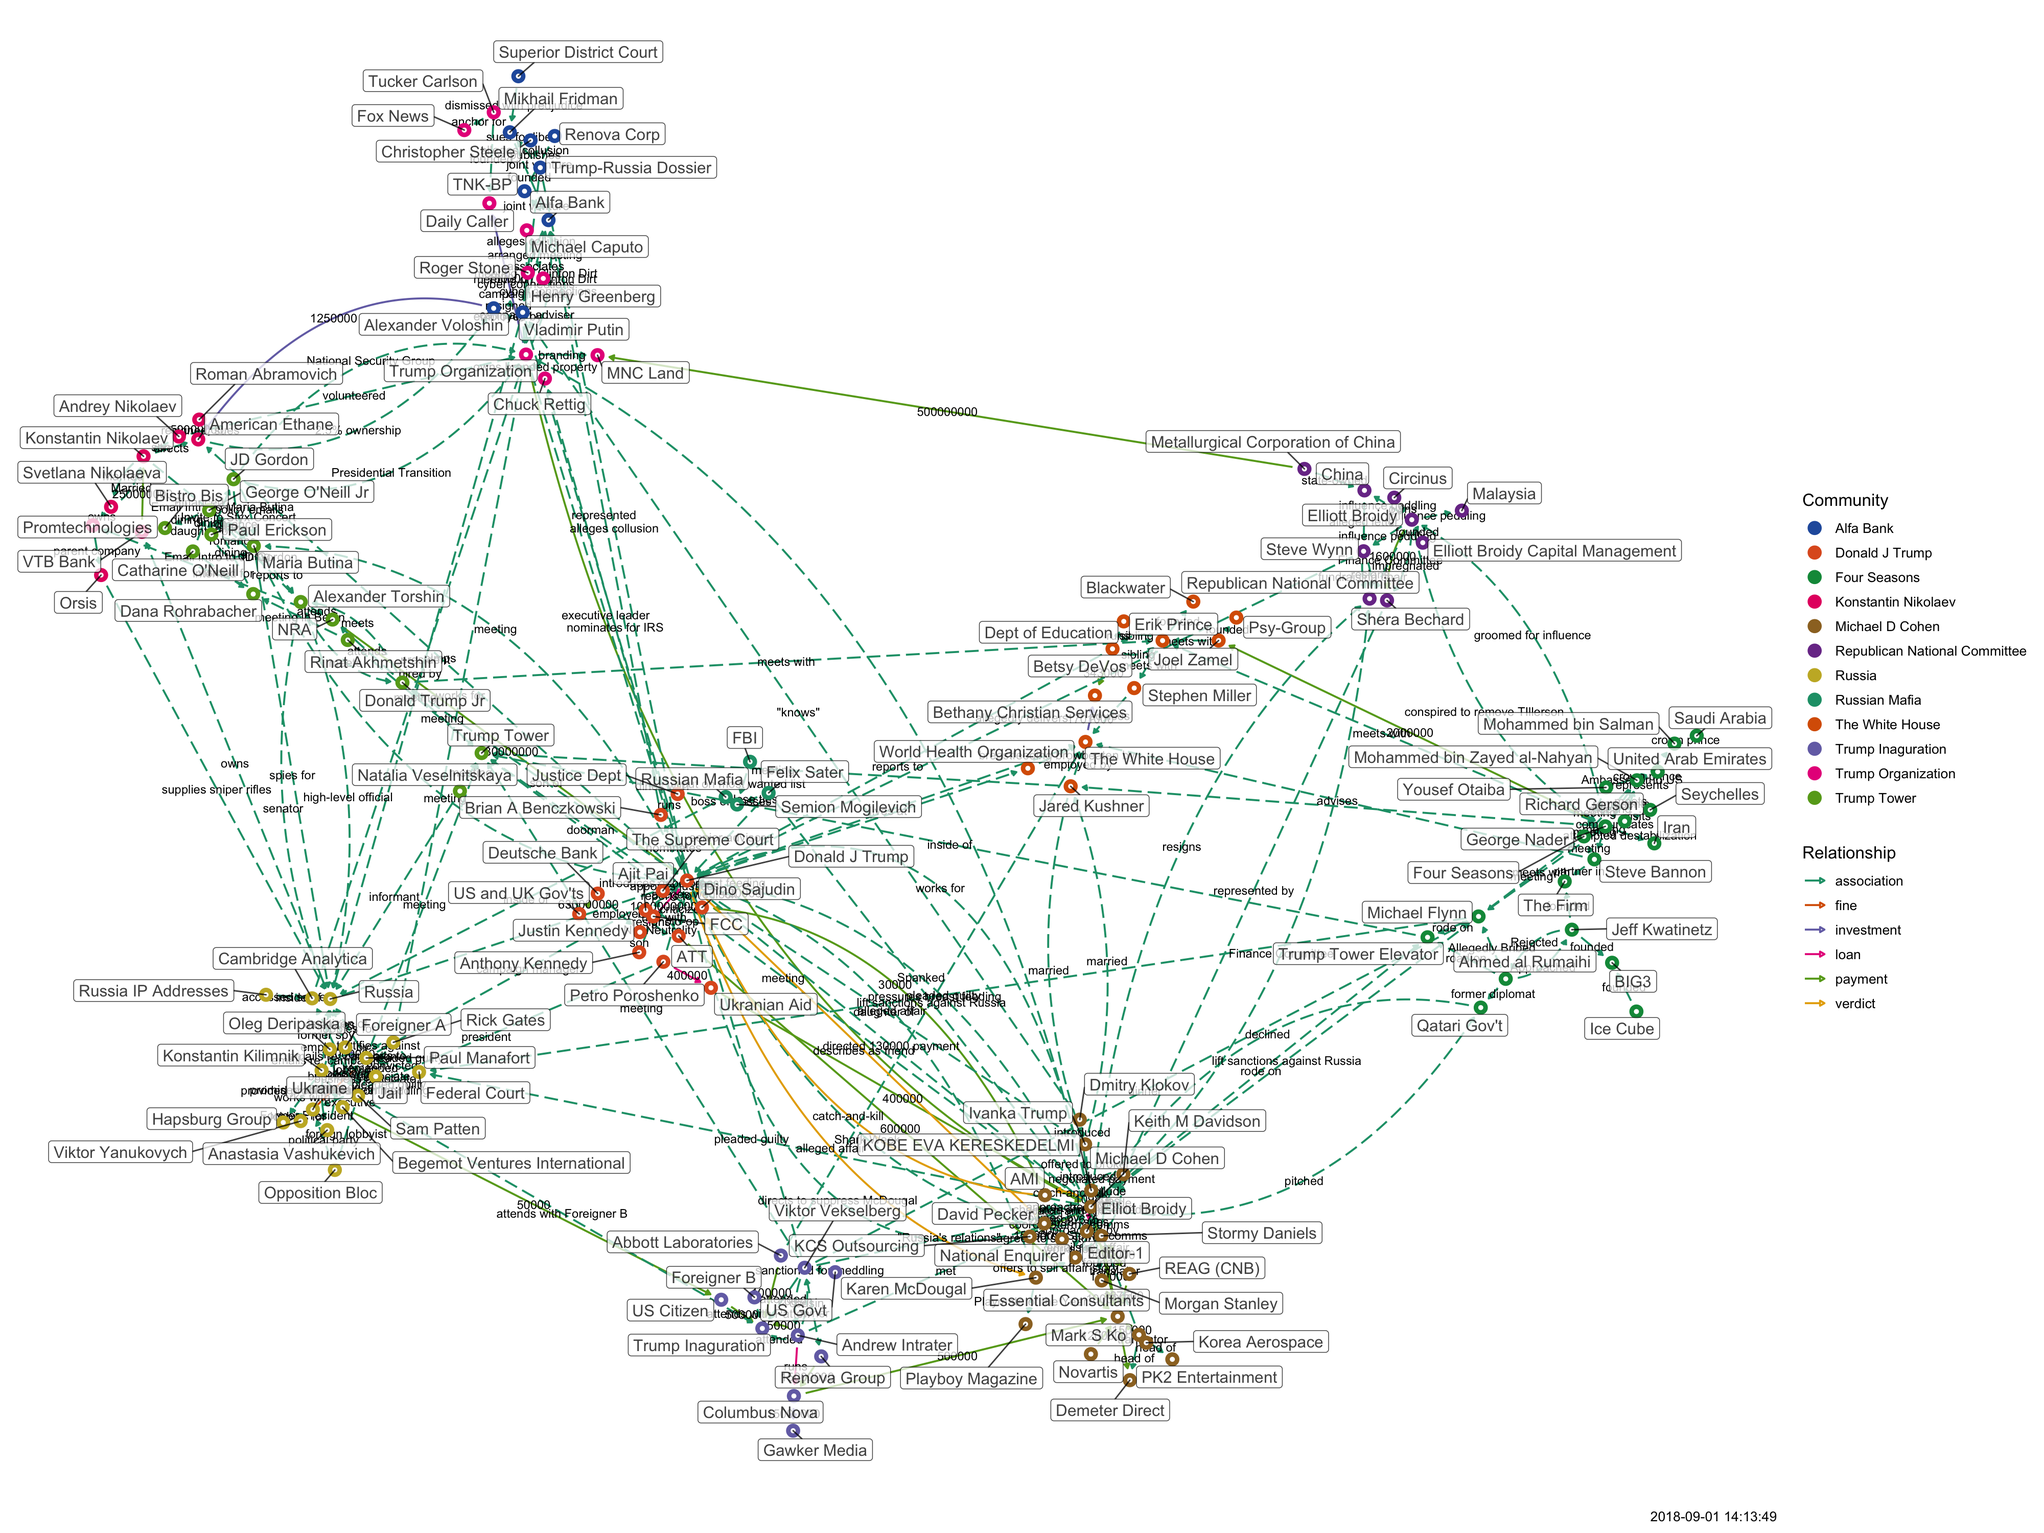
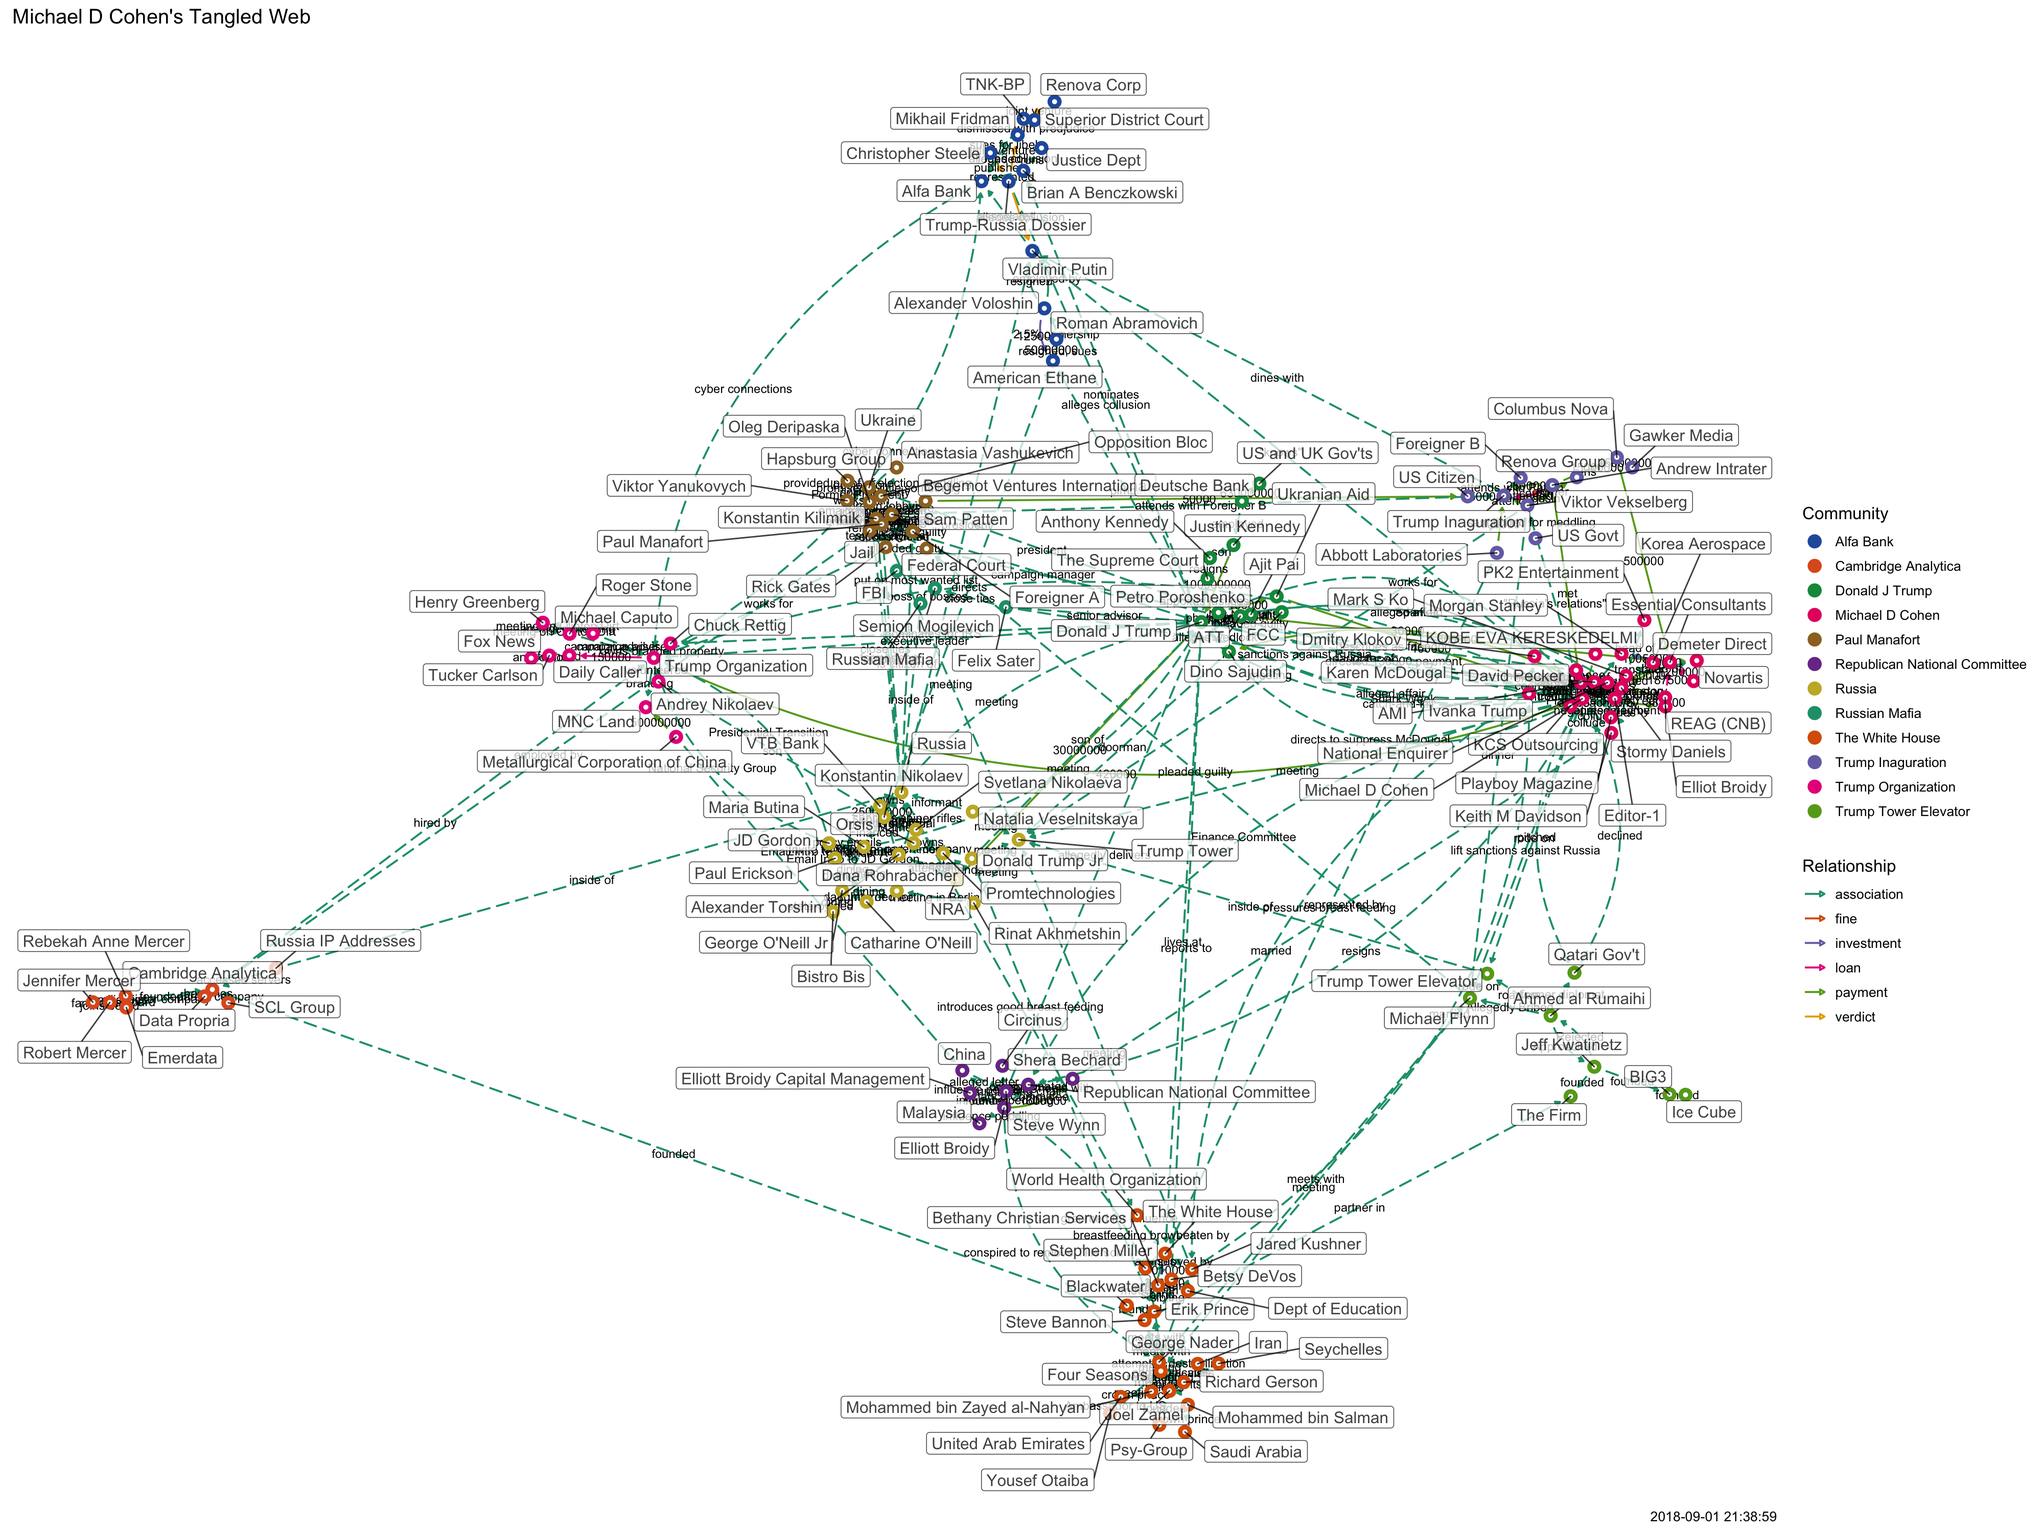
updated

diff --git a/docs/tangled-d3.html b/docs/tangled-d3.html
@@ -1143,11 +1143,11 @@ return function(){for(var n=0,e=0;e<t;++e)n+=Math.random();return n}},um=functio
 </head>
 <body style="background-color: white;">
 <div id="htmlwidget_container">
-<div id="htmlwidget-03ff935dff8e2866e40e" class="forceNetwork html-widget" style="width:960px;height:500px;">
+<div id="htmlwidget-85d11c28e7a87439447c" class="forceNetwork html-widget" style="width:960px;height:500px;">
 
 </div>
 </div>
-<script type="application/json" data-for="htmlwidget-03ff935dff8e2866e40e">{"x":{"links":{"source":[0,1,2,2,3,4,5,6,7,7,8,9,10,10,10,11,12,13,14,15,16,17,18,19,20,21,22,22,23,24,25,26,26,27,28,29,30,31,17,3,3,32,3,32,32,3,33,17,34,32,9,9,9,17,35,35,34,17,17,36,36,36,36,35,17,37,38,38,39,40,39,39,41,38,38,42,42,42,4,41,9,11,11,11,43,43,44,44,17,45,46,46,11,47,48,49,11,11,50,51,49,52,48,11,11,47,49,6,6,6,26,16,21,21,17,32,32,53,54,54,54,54,11,51,37,41,55,55,44,44,56,56,34,34,17,57,58,59,58,60,61,60,58,60,60,47,43,62,63,63,30,20,60,58,35,64,17,65,12,66,35,0,67,68,35,1,1,69,24,70,35,70,61,71,26,72,73,73,74,35,74,74,75,74,76,75,47,47,75,75,75,74,77,76,78,78,62,79,9,80,57,81,81,81,76,76,81,82,82,83,83,84,85,85,19,82,86,68,87,88,89,87,89,9,9,9,90,90,90,91,92,20,32,35,93,94,94,94,94,37,17,35,95,96,97,17,17,98,95,2,17,35,95,35,95,98,2,99,99,34,96,98,100,100,101,102,103,100,17,104,105,71,104,106,107,107,107,108,109,60,109,110,109,111,111,109,109,58,109,112,109],"target":[113,69,99,95,113,10,29,114,10,115,22,80,116,117,34,48,35,17,17,10,118,8,10,35,60,27,10,34,7,69,114,119,17,17,66,113,60,82,10,7,17,23,32,3,113,113,32,35,57,61,120,121,122,117,25,34,35,26,120,116,123,17,15,26,53,53,53,39,38,124,125,124,125,45,37,4,35,126,42,25,11,9,41,43,25,44,43,35,45,17,119,127,49,49,49,128,51,50,129,130,52,25,131,37,132,35,6,49,133,35,118,91,35,134,135,135,17,135,136,51,11,137,137,137,137,137,137,130,17,56,17,61,57,17,57,17,59,134,60,68,68,35,68,138,135,135,135,135,135,68,134,68,58,20,64,26,120,139,65,12,139,25,25,67,69,61,61,1,69,71,70,140,71,26,71,26,72,68,35,74,68,75,68,76,74,47,75,19,19,68,79,79,79,79,79,77,77,141,80,57,17,74,26,26,74,81,74,74,83,82,86,68,82,26,86,69,84,31,88,89,88,26,26,91,142,90,120,35,120,90,20,92,37,4,60,60,26,93,60,93,93,17,96,97,2,96,98,2,2,17,2,17,35,95,143,35,99,35,135,96,17,17,35,102,102,103,68,17,37,71,144,144,106,107,35,61,104,104,60,109,110,134,111,109,68,72,93,5,5,113,113],"colour":["red","blue","red","red","red","red","red","red","red","blue","red","red","red","red","red","red","blue","red","red","red","blue","red","red","blue","blue","red","red","red","blue","blue","red","red","red","red","blue","red","red","blue","blue","blue","blue","blue","blue","blue","blue","blue","blue","blue","blue","blue","blue","blue","blue","blue","blue","blue","blue","blue","blue","blue","blue","blue","blue","blue","blue","blue","blue","blue","blue","blue","blue","blue","blue","blue","blue","blue","blue","blue","blue","blue","blue","blue","blue","blue","blue","blue","blue","blue","blue","blue","blue","blue","blue","blue","blue","blue","blue","blue","blue","blue","blue","blue","blue","blue","blue","blue","blue","blue","blue","blue","blue","blue","blue","blue","blue","blue","blue","blue","blue","blue","blue","blue","blue","blue","blue","blue","blue","blue","blue","blue","blue","blue","blue","blue","blue","blue","blue","blue","blue","blue","blue","blue","blue","blue","blue","blue","blue","blue","blue","blue","blue","blue","blue","blue","blue","blue","blue","blue","blue","blue","blue","blue","blue","blue","blue","blue","blue","blue","blue","blue","blue","blue","blue","blue","blue","blue","blue","blue","blue","blue","blue","blue","blue","blue","blue","blue","blue","blue","blue","blue","blue","blue","blue","blue","blue","blue","blue","blue","blue","blue","blue","blue","blue","blue","blue","blue","blue","blue","blue","blue","blue","blue","blue","blue","blue","blue","blue","blue","blue","blue","blue","blue","blue","blue","blue","blue","blue","blue","blue","blue","blue","blue","blue","blue","blue","blue","blue","blue","blue","blue","blue","blue","blue","blue","blue","blue","blue","blue","blue","blue","blue","blue","blue","blue","blue","blue","blue","blue","blue","blue","blue","blue","blue","blue","blue","blue","blue","blue","blue","blue","blue","blue","blue","blue","blue","blue","blue","blue","blue","blue","blue","blue","blue","blue","blue","blue","blue","blue","blue","blue","blue"]},"nodes":{"name":["Abbott Laboratories","Alexander Voloshin","AMI","Andrew Intrater","ATT","Begemot Ventures International","Betsy DeVos","Columbus Nova","Elliot Broidy","Elliott Broidy","Essential Consultants","George Nader","Justin Kennedy","KCS Outsourcing","KOBE EVA KERESKEDELMI","Korea Aerospace","Metallurgical Corporation of China","Michael D Cohen","Novartis","NRA","Oleg Deripaska","Petro Poroshenko","REAG (CNB)","Renova Group","Roman Abramovich","The White House","Trump Organization","Ukranian Aid","US and UK Gov'ts","US Citizen","Viktor Yanukovych","VTB Bank","Viktor Vekselberg","US Govt","Stormy Daniels","Donald J Trump","Mark S Ko","Michael Flynn","Ahmed al Rumaihi","Jeff Kwatinetz","Ice Cube","Steve Bannon","Ajit Pai","Jared Kushner","Ivanka Trump","Qatari Gov't","Tucker Carlson","Donald Trump Jr","Joel Zamel","Erik Prince","Mohammed bin Salman","Mohammed bin Zayed al-Nahyan","Stephen Miller","Trump Tower Elevator","Richard Gerson","Yousef Otaiba","Dmitry Klokov","Keith M Davidson","Konstantin Kilimnik","Hapsburg Group","Paul Manafort","Vladimir Putin","Rinat Akhmetshin","Natalia Veselnitskaya","Chuck Rettig","Anthony Kennedy","Deutsche Bank","World Health Organization","Russia","American Ethane","Brian A Benczkowski","Alfa Bank","Cambridge Analytica","Russia IP Addresses","Maria Butina","Alexander Torshin","Paul Erickson","Dana Rohrabacher","Catharine O'Neill","George O'Neill Jr","Shera Bechard","JD Gordon","Konstantin Nikolaev","Svetlana Nikolaeva","Orsis","Andrey Nikolaev","Promtechnologies","Michael Caputo","Henry Greenberg","Roger Stone","Steve Wynn","China","Anastasia Vashukevich","Federal Court","Rick Gates","Karen McDougal","Editor-1","National Enquirer","David Pecker","Dino Sajudin","Felix Sater","FBI","Semion Mogilevich","Russian Mafia","Mikhail Fridman","Renova Corp","Christopher Steele","Trump-Russia Dossier","Superior District Court","Sam Patten","Opposition Bloc","Foreigner A","Foreigner B","Trump Inaguration","Bethany Christian Services","Gawker Media","Demeter Direct","Morgan Stanley","MNC Land","Daily Caller","Republican National Committee","Elliott Broidy Capital Management","Circinus","PK2 Entertainment","BIG3","The Firm","FCC","Fox News","Blackwater","Saudi Arabia","United Arab Emirates","Psy-Group","Iran","Dept of Education","Ukraine","Trump Tower","Seychelles","Four Seasons","Jail","The Supreme Court","Justice Dept","Bistro Bis","Malaysia","Playboy Magazine","TNK-BP"],"group":["7","8","1","7","4","3","6","7","1","9","1","2","4","1","1","1","9","1","1","5","3","4","1","7","11","6","10","4","4","7","3","11","7","7","1","4","1","2","2","2","2","2","4","6","1","2","10","5","6","6","2","2","6","2","2","2","1","1","3","3","3","8","5","5","10","4","4","6","3","11","4","8","3","3","5","5","5","5","5","5","9","5","11","11","11","11","11","10","10","10","9","9","3","3","3","1","1","1","1","4","12","12","12","12","8","8","8","8","8","3","3","3","7","7","6","7","1","1","10","10","9","9","9","1","2","2","4","10","6","2","2","6","2","6","3","5","2","2","3","4","4","5","9","1","8"]},"options":{"NodeID":"name","Group":"group","colourScale":"d3.scaleOrdinal(d3.schemeCategory20);","fontSize":20,"fontFamily":"serif","clickTextSize":50,"linkDistance":50,"linkWidth":"function(d) { return Math.sqrt(d.value); }","charge":-100,"opacity":1,"zoom":true,"legend":false,"arrows":false,"nodesize":false,"radiusCalculation":" Math.sqrt(d.nodesize)+6","bounded":false,"opacityNoHover":1,"clickAction":null}},"evals":[],"jsHooks":[]}</script>
-<script type="application/htmlwidget-sizing" data-for="htmlwidget-03ff935dff8e2866e40e">{"viewer":{"width":450,"height":350,"padding":10,"fill":true},"browser":{"width":960,"height":500,"padding":10,"fill":true}}</script>
+<script type="application/json" data-for="htmlwidget-85d11c28e7a87439447c">{"x":{"links":{"source":[0,1,2,2,3,4,5,6,7,7,8,9,10,10,10,11,12,13,14,15,16,17,18,19,20,21,22,22,23,24,25,26,26,27,28,29,30,31,17,3,3,32,3,32,32,3,33,17,34,32,9,9,9,17,35,35,34,17,17,36,36,36,36,35,17,37,38,38,39,40,39,39,41,38,38,42,42,42,4,41,9,11,11,11,43,43,44,44,17,45,46,46,11,47,48,49,11,11,50,51,49,52,48,11,11,47,49,6,6,6,26,16,21,21,17,32,32,53,54,54,54,54,11,51,37,41,55,55,44,44,56,56,34,34,17,57,58,59,58,60,61,60,58,60,60,47,43,62,63,63,30,20,60,58,35,64,17,65,12,66,35,0,67,68,35,1,1,69,24,70,35,70,61,71,26,72,73,73,74,35,74,74,75,74,76,75,47,47,75,75,75,74,77,76,78,78,62,79,9,80,57,81,81,81,76,76,81,82,82,83,83,84,85,85,19,82,86,68,87,88,89,87,89,9,9,9,90,90,90,91,92,20,32,35,93,94,94,94,94,37,17,35,95,96,97,17,17,98,95,2,17,35,95,35,95,98,2,99,99,34,96,98,100,100,101,102,103,100,17,104,105,71,104,106,107,107,107,108,109,60,109,110,109,111,111,109,109,58,109,112,109,41,113,72,114,115,116,117,116,117],"target":[118,69,99,95,118,10,29,119,10,120,22,80,121,122,34,48,35,17,17,10,123,8,10,35,60,27,10,34,7,69,119,124,17,17,66,118,60,82,10,7,17,23,32,3,118,118,32,35,57,61,125,126,127,122,25,34,35,26,125,121,128,17,15,26,53,53,53,39,38,129,130,129,130,45,37,4,35,131,42,25,11,9,41,43,25,44,43,35,45,17,124,132,49,49,49,133,51,50,134,135,52,25,136,37,137,35,6,49,138,35,123,91,35,139,140,140,17,140,141,51,11,142,142,142,142,142,142,135,17,56,17,61,57,17,57,17,59,139,60,68,68,35,68,143,140,140,140,140,140,68,139,68,58,20,64,26,125,144,65,12,144,25,25,67,69,61,61,1,69,71,70,145,71,26,71,26,72,68,35,74,68,75,68,76,74,47,75,19,19,68,79,79,79,79,79,77,77,146,80,57,17,74,26,26,74,81,74,74,83,82,86,68,82,26,86,69,84,31,88,89,88,26,26,91,147,90,125,35,125,90,20,92,37,4,60,60,26,93,60,93,93,17,96,97,2,96,98,2,2,17,2,17,35,95,148,35,99,35,140,96,17,17,35,102,102,103,68,17,37,71,149,149,106,107,35,61,104,104,60,109,110,139,111,109,68,72,93,5,5,118,118,72,72,150,72,72,115,115,113,113],"colour":["red","blue","red","red","red","red","red","red","red","blue","red","red","red","red","red","red","blue","red","red","red","blue","red","red","blue","blue","red","red","red","blue","blue","red","red","red","red","blue","red","red","blue","blue","blue","blue","blue","blue","blue","blue","blue","blue","blue","blue","blue","blue","blue","blue","blue","blue","blue","blue","blue","blue","blue","blue","blue","blue","blue","blue","blue","blue","blue","blue","blue","blue","blue","blue","blue","blue","blue","blue","blue","blue","blue","blue","blue","blue","blue","blue","blue","blue","blue","blue","blue","blue","blue","blue","blue","blue","blue","blue","blue","blue","blue","blue","blue","blue","blue","blue","blue","blue","blue","blue","blue","blue","blue","blue","blue","blue","blue","blue","blue","blue","blue","blue","blue","blue","blue","blue","blue","blue","blue","blue","blue","blue","blue","blue","blue","blue","blue","blue","blue","blue","blue","blue","blue","blue","blue","blue","blue","blue","blue","blue","blue","blue","blue","blue","blue","blue","blue","blue","blue","blue","blue","blue","blue","blue","blue","blue","blue","blue","blue","blue","blue","blue","blue","blue","blue","blue","blue","blue","blue","blue","blue","blue","blue","blue","blue","blue","blue","blue","blue","blue","blue","blue","blue","blue","blue","blue","blue","blue","blue","blue","blue","blue","blue","blue","blue","blue","blue","blue","blue","blue","blue","blue","blue","blue","blue","blue","blue","blue","blue","blue","blue","blue","blue","blue","blue","blue","blue","blue","blue","blue","blue","blue","blue","blue","blue","blue","blue","blue","blue","blue","blue","blue","blue","blue","blue","blue","blue","blue","blue","blue","blue","blue","blue","blue","blue","blue","blue","blue","blue","blue","blue","blue","blue","blue","blue","blue","blue","blue","blue","blue","blue","blue","blue","blue","blue","blue","blue","blue","blue","blue","blue","blue","blue","blue","blue","blue","blue","blue","blue","blue","blue","blue","blue","blue","blue","blue","blue","blue","blue","blue","blue"]},"nodes":{"name":["Abbott Laboratories","Alexander Voloshin","AMI","Andrew Intrater","ATT","Begemot Ventures International","Betsy DeVos","Columbus Nova","Elliot Broidy","Elliott Broidy","Essential Consultants","George Nader","Justin Kennedy","KCS Outsourcing","KOBE EVA KERESKEDELMI","Korea Aerospace","Metallurgical Corporation of China","Michael D Cohen","Novartis","NRA","Oleg Deripaska","Petro Poroshenko","REAG (CNB)","Renova Group","Roman Abramovich","The White House","Trump Organization","Ukranian Aid","US and UK Gov'ts","US Citizen","Viktor Yanukovych","VTB Bank","Viktor Vekselberg","US Govt","Stormy Daniels","Donald J Trump","Mark S Ko","Michael Flynn","Ahmed al Rumaihi","Jeff Kwatinetz","Ice Cube","Steve Bannon","Ajit Pai","Jared Kushner","Ivanka Trump","Qatari Gov't","Tucker Carlson","Donald Trump Jr","Joel Zamel","Erik Prince","Mohammed bin Salman","Mohammed bin Zayed al-Nahyan","Stephen Miller","Trump Tower Elevator","Richard Gerson","Yousef Otaiba","Dmitry Klokov","Keith M Davidson","Konstantin Kilimnik","Hapsburg Group","Paul Manafort","Vladimir Putin","Rinat Akhmetshin","Natalia Veselnitskaya","Chuck Rettig","Anthony Kennedy","Deutsche Bank","World Health Organization","Russia","American Ethane","Brian A Benczkowski","Alfa Bank","Cambridge Analytica","Russia IP Addresses","Maria Butina","Alexander Torshin","Paul Erickson","Dana Rohrabacher","Catharine O'Neill","George O'Neill Jr","Shera Bechard","JD Gordon","Konstantin Nikolaev","Svetlana Nikolaeva","Orsis","Andrey Nikolaev","Promtechnologies","Michael Caputo","Henry Greenberg","Roger Stone","Steve Wynn","China","Anastasia Vashukevich","Federal Court","Rick Gates","Karen McDougal","Editor-1","National Enquirer","David Pecker","Dino Sajudin","Felix Sater","FBI","Semion Mogilevich","Russian Mafia","Mikhail Fridman","Renova Corp","Christopher Steele","Trump-Russia Dossier","Superior District Court","Sam Patten","Opposition Bloc","Foreigner A","Foreigner B","Robert Mercer","SCL Group","Emerdata","Jennifer Mercer","Rebekah Anne Mercer","Trump Inaguration","Bethany Christian Services","Gawker Media","Demeter Direct","Morgan Stanley","MNC Land","Daily Caller","Republican National Committee","Elliott Broidy Capital Management","Circinus","PK2 Entertainment","BIG3","The Firm","FCC","Fox News","Blackwater","Saudi Arabia","United Arab Emirates","Psy-Group","Iran","Dept of Education","Ukraine","Trump Tower","Seychelles","Four Seasons","Jail","The Supreme Court","Justice Dept","Bistro Bis","Malaysia","Playboy Magazine","TNK-BP","Data Propria"],"group":["8","5","1","8","6","4","2","8","1","10","1","2","6","1","1","1","7","1","1","3","4","6","1","8","5","2","7","6","6","8","4","3","8","8","1","6","1","11","11","11","11","2","6","2","1","11","7","3","2","2","2","2","2","11","2","2","1","1","4","4","4","5","3","3","7","6","6","2","3","5","5","5","9","9","3","3","3","3","3","3","10","3","3","3","3","7","3","7","7","7","10","10","4","4","4","1","1","1","1","6","12","12","12","12","5","5","5","5","5","4","4","4","8","9","9","9","9","9","8","2","8","1","1","7","7","10","10","10","1","11","11","6","7","2","2","2","2","2","2","4","3","2","2","4","6","5","3","10","1","5","9"]},"options":{"NodeID":"name","Group":"group","colourScale":"d3.scaleOrdinal(d3.schemeCategory20);","fontSize":20,"fontFamily":"serif","clickTextSize":50,"linkDistance":50,"linkWidth":"function(d) { return Math.sqrt(d.value); }","charge":-100,"opacity":1,"zoom":true,"legend":false,"arrows":false,"nodesize":false,"radiusCalculation":" Math.sqrt(d.nodesize)+6","bounded":false,"opacityNoHover":1,"clickAction":null}},"evals":[],"jsHooks":[]}</script>
+<script type="application/htmlwidget-sizing" data-for="htmlwidget-85d11c28e7a87439447c">{"viewer":{"width":450,"height":350,"padding":10,"fill":true},"browser":{"width":960,"height":500,"padding":10,"fill":true}}</script>
 </body>
 </html>
